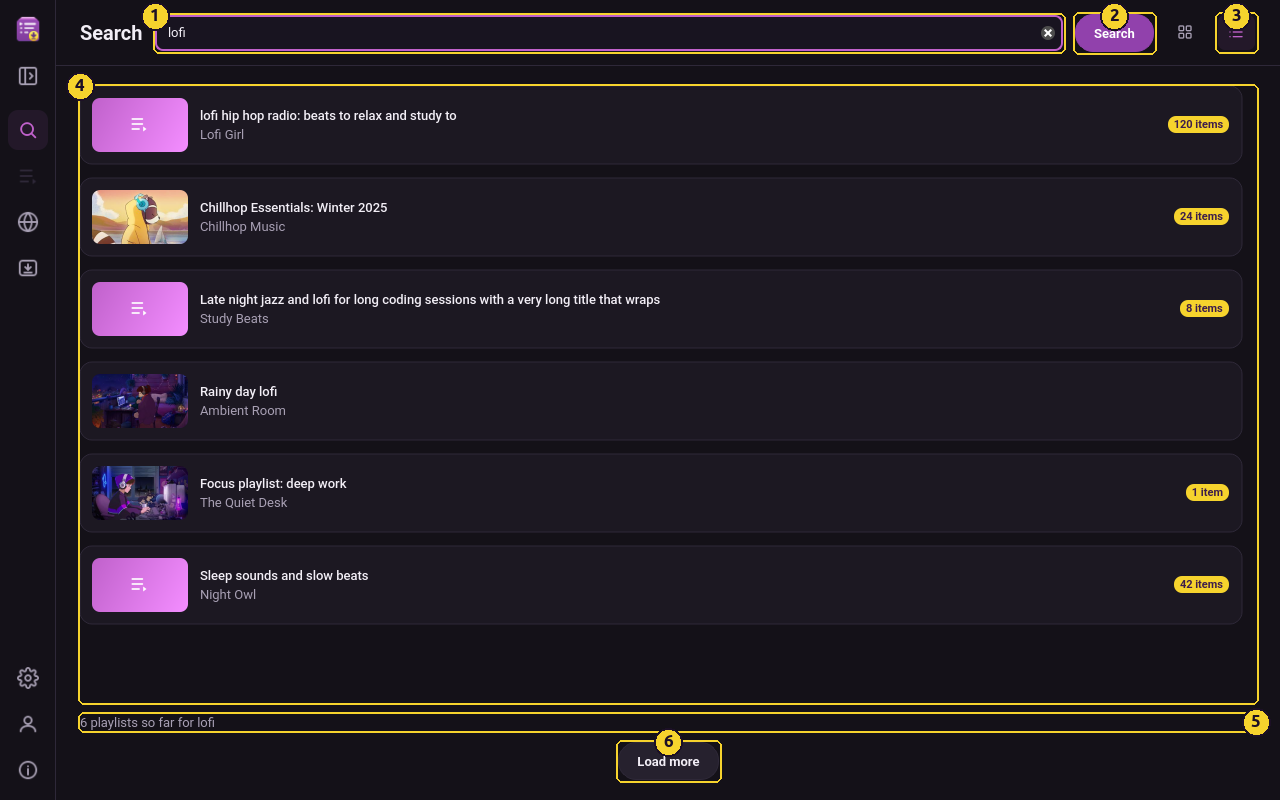
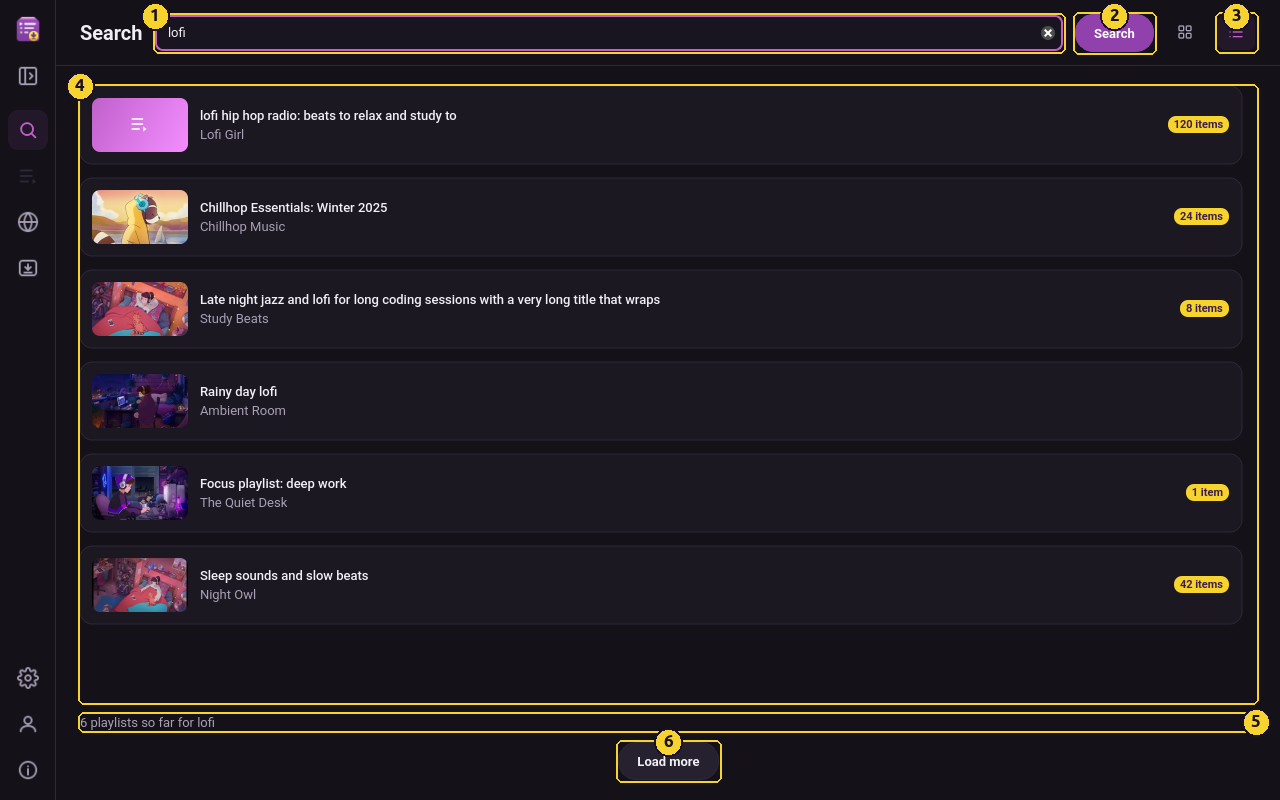
feat: Ctrl+H hides the window (to the tray, or minimises); the rail toggle paints as a plain row and labels drop the menu ellipsis

Changed region(s): [[0.0625, 0.6875, 0.1562, 0.7812], [0.0625, 0.3438, 0.1562, 0.4375]]

diff --git a/src/ui/side_rail.cpp b/src/ui/side_rail.cpp
@@ -51,6 +51,7 @@ public:
     void setLabel(const QString& text) { m_label = text; update(); }
     void setLabelAlpha(qreal alpha) { m_alpha = std::clamp(alpha, 0.0, 1.0); update(); }
     void setBold(bool bold) { m_bold = bold; }
+    void setColours(const QColor& text, const QColor& active) { m_text = text; m_active = active; update(); }
 
 protected:
     void paintEvent(QPaintEvent*) override
@@ -76,7 +77,7 @@ protected:
             QFont font = painter.font();
             font.setWeight(m_bold ? QFont::DemiBold : QFont::Medium);
             painter.setFont(font);
-            painter.setPen(option.palette.color(isChecked() ? QPalette::Highlight : QPalette::ButtonText));
+            painter.setPen(isChecked() ? m_active : m_text); // the brand accent, not the palette's highlight
             const QRect textRect(kLabelLeft, 0, width() - kLabelLeft - 8, height());
             painter.drawText(textRect, Qt::AlignVCenter | Qt::AlignLeft,
                              painter.fontMetrics().elidedText(m_label, Qt::ElideRight, textRect.width()));
@@ -88,6 +89,8 @@ private:
     qreal m_alpha = 0.0;
     int m_glyph = kIconSize;
     bool m_bold = false;
+    QColor m_text;
+    QColor m_active;
 };
 
 SideRail::SideRail(Actions& actions, core::ThemeService& theme, QWidget* parent)
@@ -221,8 +224,10 @@ void SideRail::applyIcons()
             action->setIcon(icon);
         }
         b->setIcon(icon);
+        b->setColours(t.text, t.accent);
     }
     m_logo->setIcon(icons::brand());
+    m_logo->setColours(t.text, t.accent);
     m_badge->setStyleSheet(
         u"background:%1;color:%2;border-radius:8px;font-size:10px;font-weight:700;padding:0 4px;"_s.arg(
             t.accent.name(), t.accentText.name()));

diff --git a/src/ui/actions.cpp b/src/ui/actions.cpp
@@ -35,7 +35,8 @@ Actions::Actions(QWidget* owner)
     playlist = make(owner, tr("Playlist"), {QKeySequence(Qt::CTRL | Qt::Key_2)});
     browser = make(owner, tr("Browser"), {QKeySequence(Qt::CTRL | Qt::Key_3)});
     downloads = make(owner, tr("Downloads"), {QKeySequence(Qt::CTRL | Qt::Key_4)});
-    showHide = make(owner, tr("Hide window")); // the tray and the menu; no shortcut (Ctrl+W closes a tab)
+    // Ctrl+H hides to the tray, or minimises without one (owner, 2026-09-25); Ctrl+W closes a tab.
+    showHide = make(owner, tr("Hide window"), {QKeySequence(Qt::CTRL | Qt::Key_H)});
     settings = make(owner, tr("Settings…"), {QKeySequence(Qt::CTRL | Qt::Key_Comma)});
     shortcuts = make(owner, tr("Keyboard shortcuts"), {QKeySequence(Qt::Key_F1), QKeySequence(Qt::CTRL | Qt::Key_Slash)});
     onlineGuide = make(owner, tr("Online guide"));

diff --git a/GUIDE.md b/GUIDE.md
@@ -12,7 +12,8 @@ four pages of the window and the settings that matter.
 1. Search, 2. Playlist, 3. Browser, 4. Downloads, 5. Settings, 6. Account, 7. Help: the
 keyboard shortcuts, the online guide, the supported sites, Report a bug and About. The
 button under the logo (or Ctrl+B) widens the rail to show the labels beside the icons; the
-choice is remembered.
+choice is remembered. Ctrl+H hides the window (to the tray when there is one, otherwise
+it minimises).
 
 A rail on the left holds the pages: **Search** (Ctrl+1), **Playlist** (Ctrl+2), **Browser**
 (Ctrl+3) and **Downloads** (Ctrl+4), with **Settings** (Ctrl+,), your account and **About**
